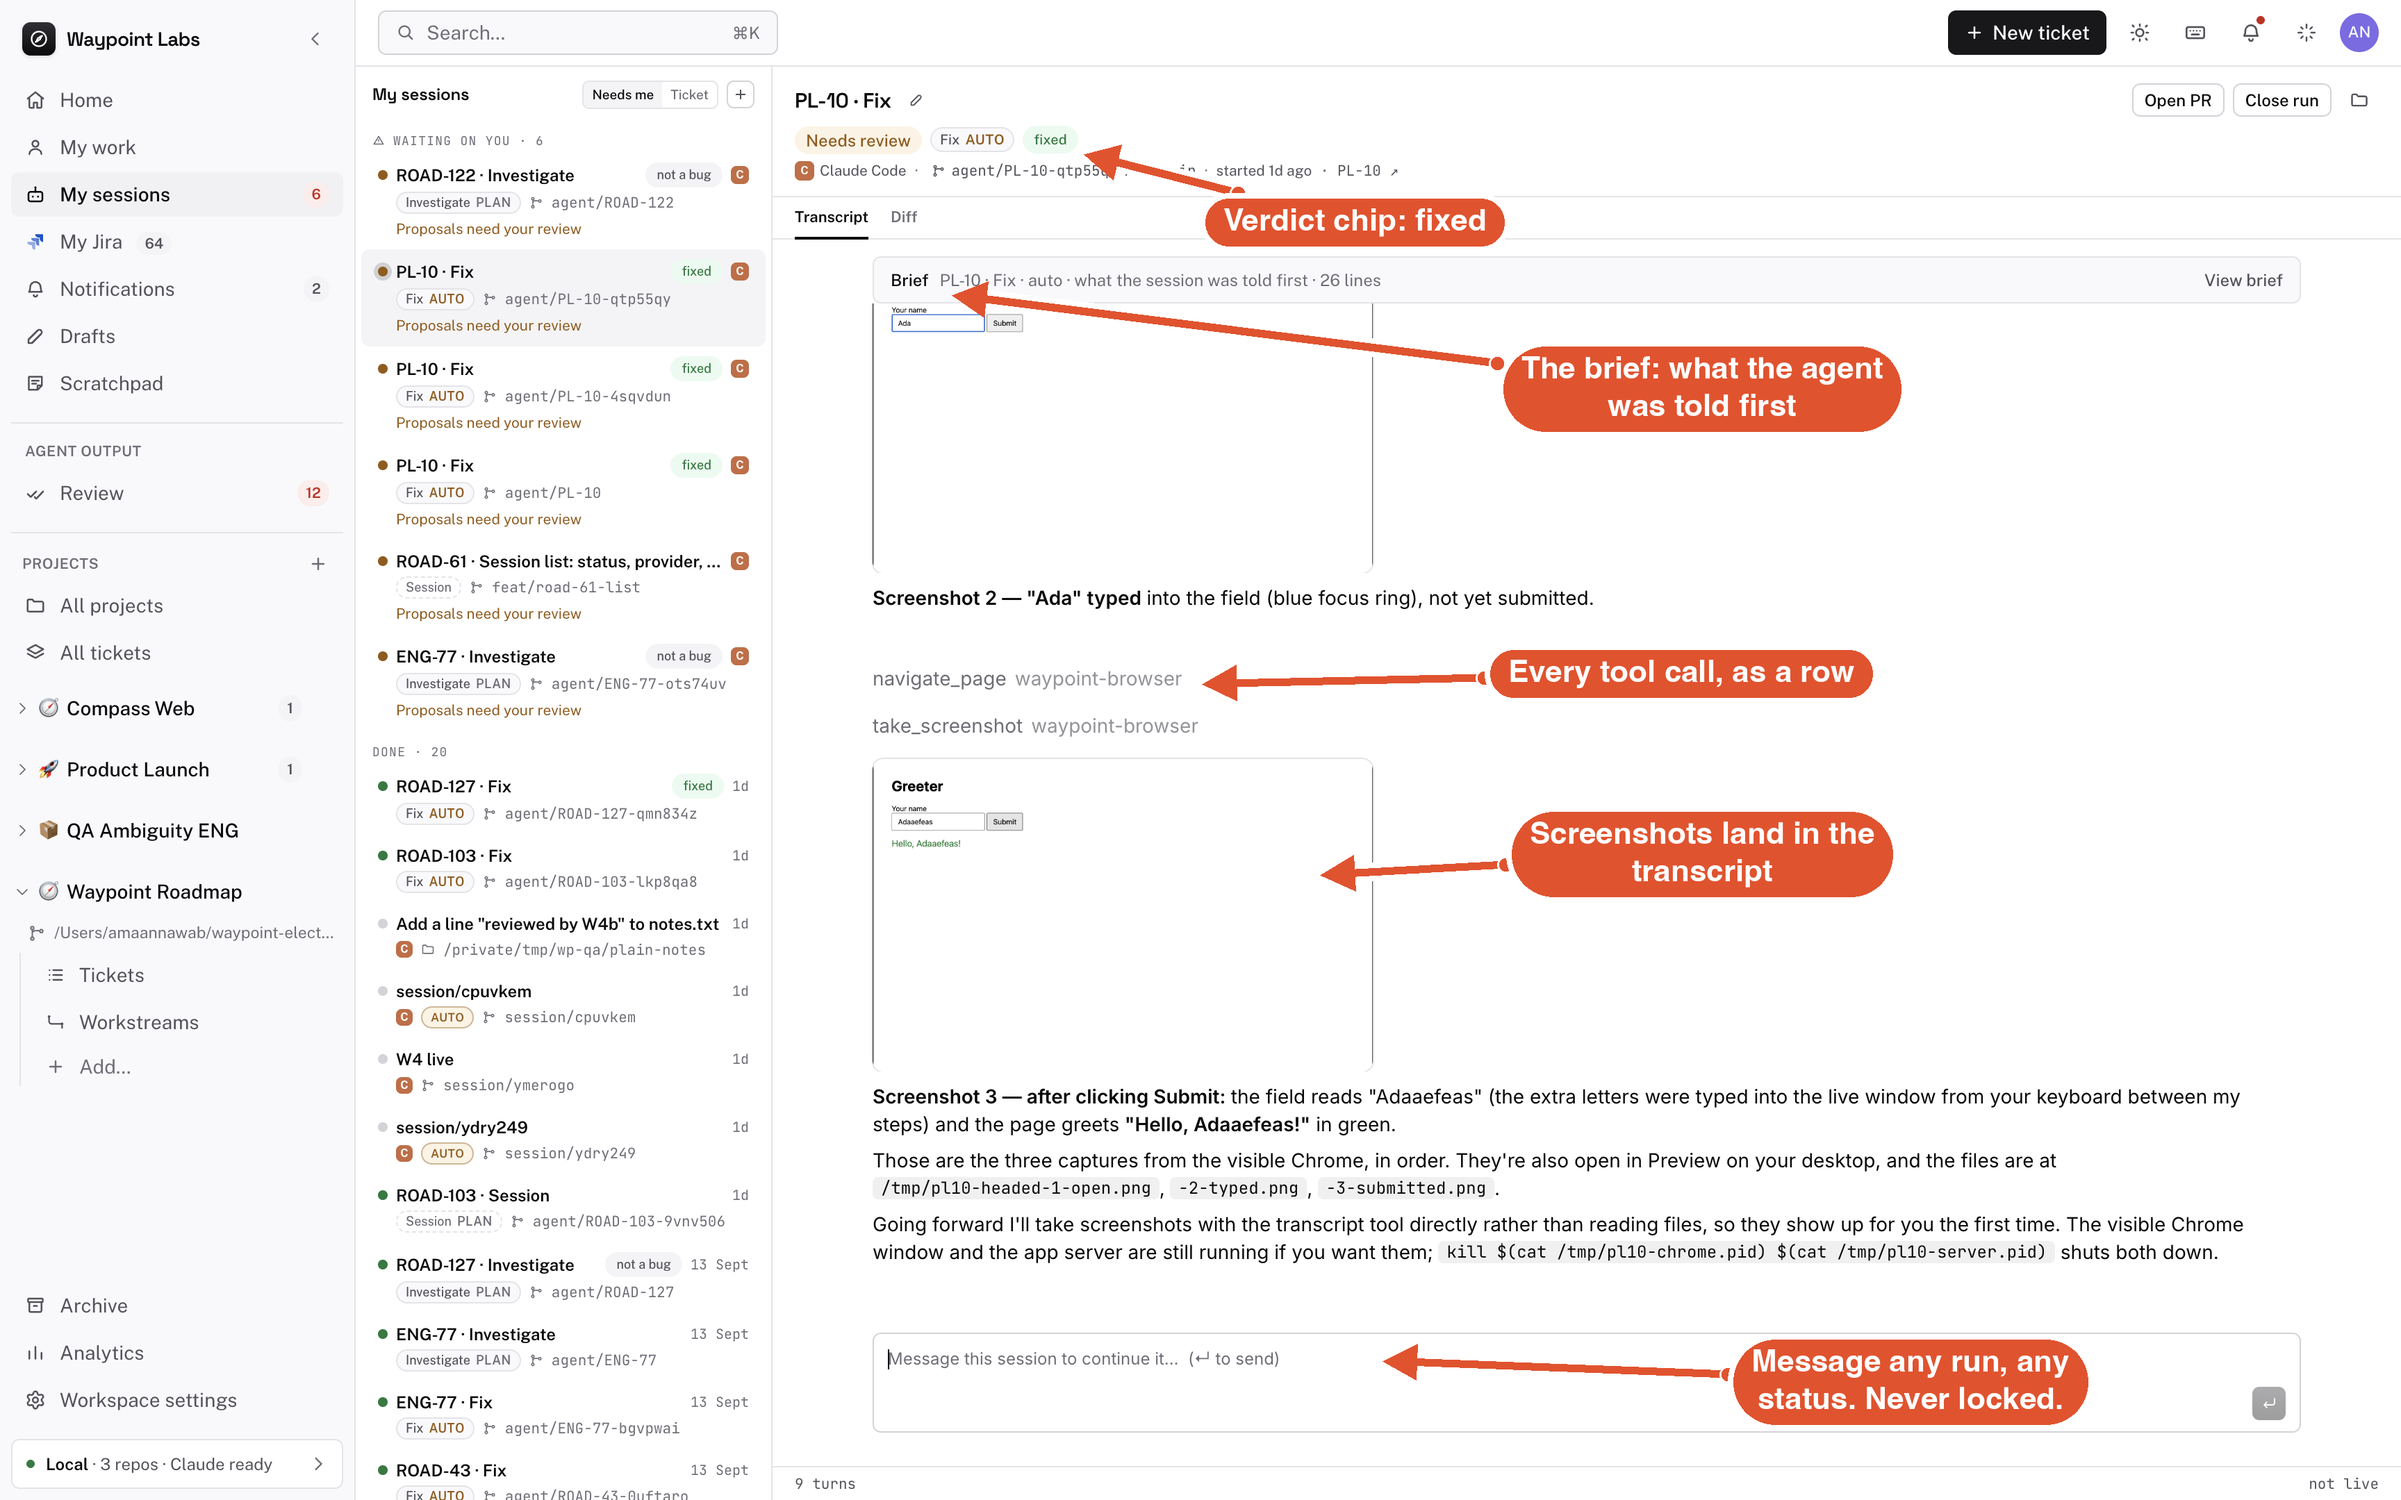
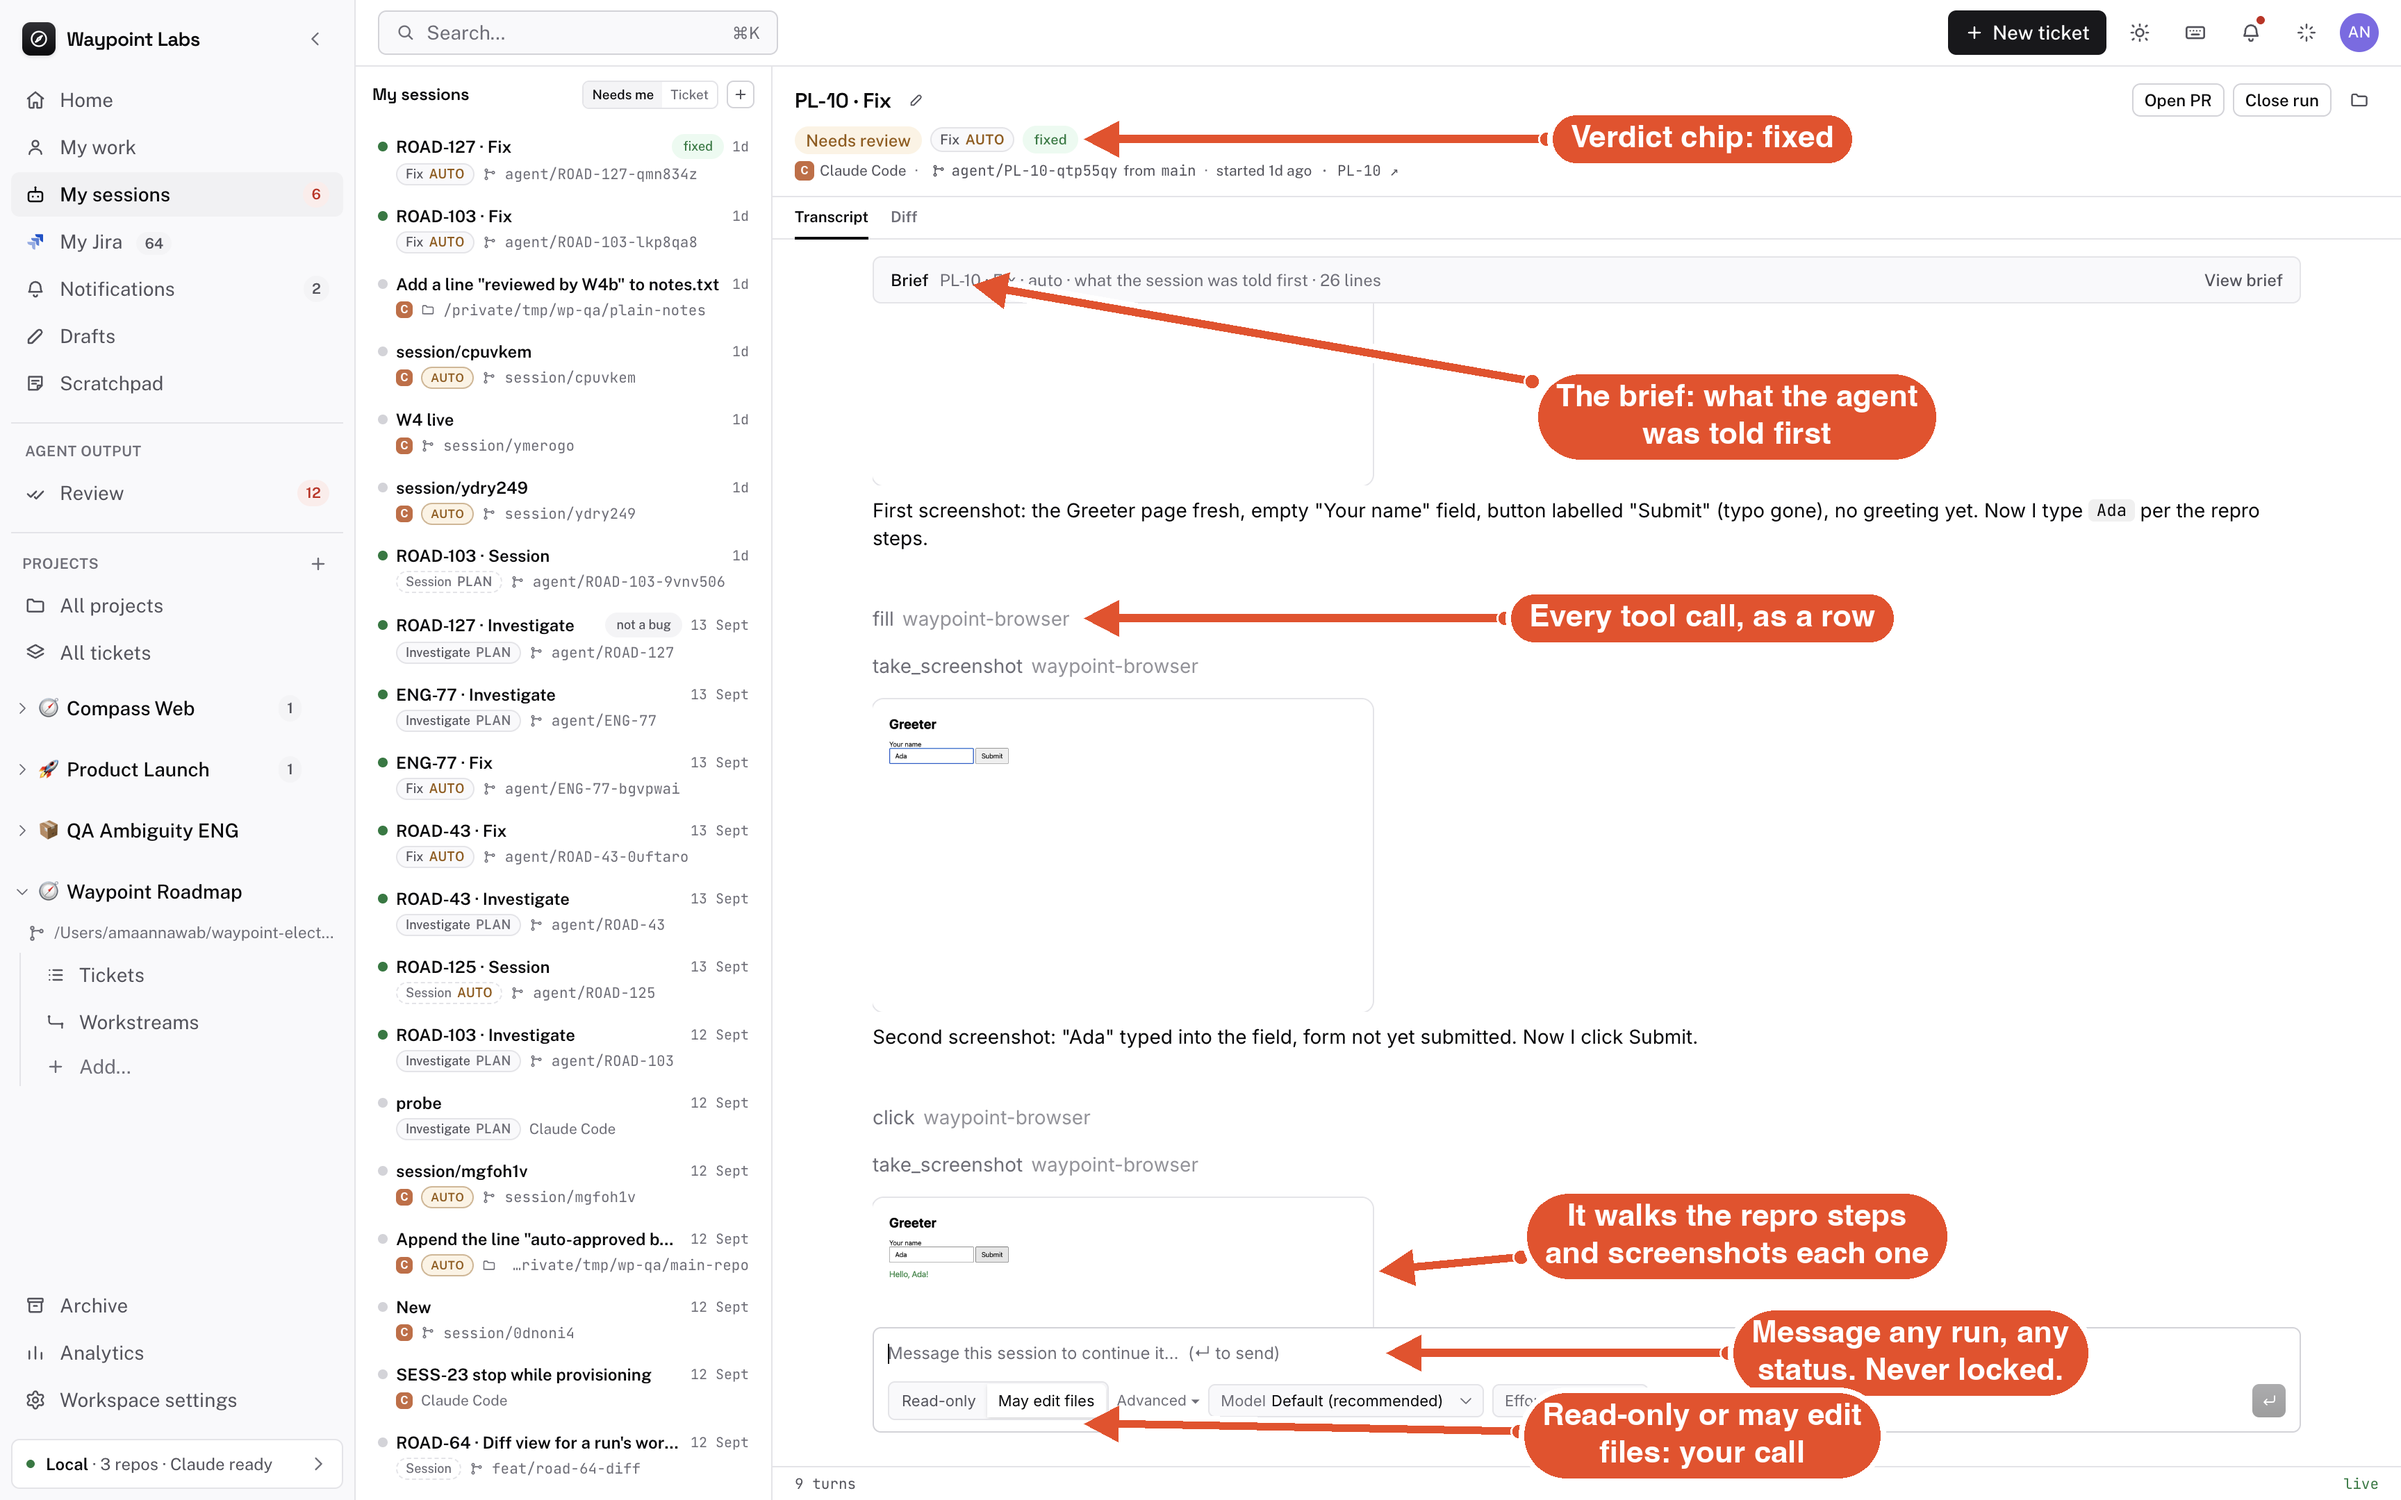
docs(readme): re-shoot the hero on the session's verification steps
The first hero was the run's tail — a follow-up chat that mentioned the
person typing into the live window and a kill command. The verification
turn is the story: the agent walks the repro steps, each tool call a
row, each screenshot in the transcript, "Hello, Ada!" on the page — and
the composer's Read-only / May edit files picker gets its own callout.

diff --git a/docs/screenshots/annotate.py b/docs/screenshots/annotate.py
@@ -134,11 +134,12 @@ def callout(draw, text, at, to, max_w=560):
 # name -> list of (label, pill centre, arrow tip[, max text width]). Raw pixel space.
 SHOTS: dict[str, list[tuple]] = {
     "hero-session": [
-        ("The brief: what the agent was told first", (2450, 560), (1370, 425)),
-        ("Verdict chip: fixed", (1950, 320), (1560, 222)),
-        ("Every tool call, as a row", (2420, 970), (1730, 985)),
-        ("Screenshots land in the transcript", (2450, 1230), (1900, 1260)),
-        ("Message any run, any status. Never locked.", (2750, 1990), (1990, 1960)),
+        ("The brief: what the agent was told first", (2500, 600), (1400, 410)),
+        ("Verdict chip: fixed", (2450, 200), (1560, 200)),
+        ("Every tool call, as a row", (2450, 890), (1560, 890)),
+        ("It walks the repro steps and screenshots each one", (2500, 1780), (1985, 1830)),
+        ("Message any run, any status. Never locked.", (2750, 1948), (1995, 1948)),
+        ("Read-only or may edit files: your call", (2450, 2118), (1560, 2050)),
     ],
     "review": [
         ("Comment + state change, one card", (800, 290), (1200, 290)),
